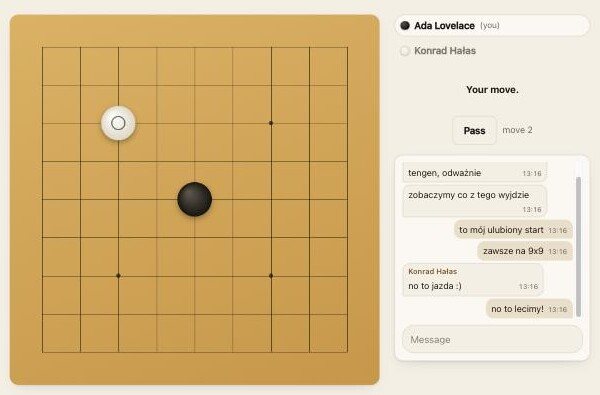
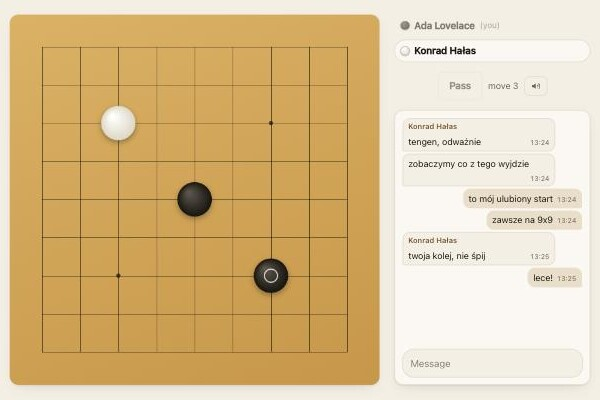
feat: quieter status line, taller chat, a chat sound and a mute
Four small things.

The line naming whose turn it is has gone: the highlighted seat already says
it, and saying it twice made the panel noisier than the game. "Your move."
stays, because that one is a prompt rather than a label, and the line
collapses when it has nothing to say instead of holding a gap open.

The panel now matches the height of the board and the chat takes whatever is
left of it, so the two columns end on the same line. Stacked on a narrow
screen there is no board height to match, so the log falls back to a fixed one.

A message makes a sound of its own — two tones, rising for one arriving and
falling for one leaving, so the two are distinguishable without looking. It is
deliberately not the stone sound: a chat line is not a move.

A speaker button mutes everything, remembered per browser in localStorage. It
gates the sounds at the point they are played rather than at the point they
are decided, so muting never changes what the page does, only what it makes.

diff --git a/web/static/game.js b/web/static/game.js
@@ -19,6 +19,9 @@ const joinButton = joinForm.querySelector('button');
 const inviteRow = document.getElementById('inviteRow');
 const inviteField = document.getElementById('invite');
 const seatsRow = document.getElementById('seats');
+const muteButton = document.getElementById('mute');
+const muteWaves = document.getElementById('muteWaves');
+const muteCross = document.getElementById('muteCross');
 const chatPanel = document.getElementById('chat');
 const chatLog = document.getElementById('chatLog');
 const chatEmpty = document.getElementById('chatEmpty');
@@ -37,6 +40,8 @@ let hovered = -1;
 let lastMoves = null;
 let lastPasses = null;
 let chatShown = '';
+let lastChatAt = null;
+let muted = localStorage.getItem('avgo:muted') === '1';
 
 const headers = () => (token ? { 'x-player-token': token } : {});
 const colorName = (n) => (n === 1 ? 'Black' : n === 2 ? 'White' : 'nobody');
@@ -63,8 +68,29 @@ function unlockAudio() {
 document.addEventListener('pointerdown', unlockAudio);
 document.addEventListener('keydown', unlockAudio);
 
+function showMute() {
+  muteWaves.hidden = muted;
+  muteCross.hidden = !muted;
+  muteButton.setAttribute('aria-pressed', String(muted));
+  const label = muted ? 'Unmute sounds' : 'Mute sounds';
+  muteButton.title = label;
+  muteButton.setAttribute('aria-label', label);
+}
+
+muteButton.addEventListener('click', () => {
+  muted = !muted;
+  localStorage.setItem('avgo:muted', muted ? '1' : '0');
+  showMute();
+});
+
+showMute();
+
+function audible() {
+  return audio && audio.state === 'running' && !muted;
+}
+
 function playStone() {
-  if (!audio || audio.state !== 'running') return;
+  if (!audible()) return;
   const now = audio.currentTime;
 
   const samples = Math.floor(audio.sampleRate * 0.05);
@@ -95,6 +121,29 @@ function playStone() {
   thock.connect(thockGain).connect(audio.destination);
   thock.start(now);
   thock.stop(now + 0.09);
+}
+
+function playChime(incoming) {
+  // Two short tones, a fifth apart: up for a message arriving, down for one
+  // leaving, so you can tell them apart without looking.
+  if (!audible()) return;
+  const now = audio.currentTime;
+  const low = incoming ? 660 : 780;
+  const high = incoming ? 990 : 520;
+
+  const tone = audio.createOscillator();
+  tone.type = 'sine';
+  tone.frequency.setValueAtTime(low, now);
+  tone.frequency.setValueAtTime(high, now + 0.08);
+
+  const level = audio.createGain();
+  level.gain.setValueAtTime(0.0001, now);
+  level.gain.exponentialRampToValueAtTime(0.09, now + 0.012);
+  level.gain.exponentialRampToValueAtTime(0.0001, now + 0.24);
+
+  tone.connect(level).connect(audio.destination);
+  tone.start(now);
+  tone.stop(now + 0.26);
 }
 
 function soundMoves() {
@@ -253,7 +302,13 @@ function renderChat() {
   const messages = state.messages || [];
   // Rebuilding every second would fight the reader's scroll and selection, so
   // the log is only redrawn when it actually changed.
-  const signature = messages.length + ':' + (messages.length ? messages[messages.length - 1].at : '');
+  const newest = messages.length ? messages[messages.length - 1] : null;
+  if (lastChatAt !== null && newest && newest.at > lastChatAt) {
+    playChime(newest.color !== state.you);
+  }
+  lastChatAt = newest ? newest.at : 0;
+
+  const signature = messages.length + ':' + (newest ? newest.at : '');
   chatPanel.hidden = false;
   chatForm.hidden = state.you === 0;
   chatEmpty.hidden = messages.length > 0;
@@ -307,7 +362,9 @@ function render() {
   } else if (myTurn()) {
     say('', 'Your move.');
   } else {
-    say(nameOf(state.turn) + ' to play.');
+    // Whose turn it is already shows on the seats, so this line says nothing
+    // and collapses out of the way.
+    say('');
   }
 
   scoreLine.textContent = state.status === 'finished'

diff --git a/web/static/avgo.css b/web/static/avgo.css
@@ -115,7 +115,7 @@ body {
 .table {
   display: flex;
   gap: 1.5rem;
-  align-items: flex-start;
+  align-items: stretch;
   justify-content: center;
   width: 100%;
 }
@@ -133,6 +133,9 @@ body {
 @media (max-width: 62rem) {
   .table { flex-direction: column; align-items: center; }
   .side { width: min(22rem, 100%); }
+  /* Stacked, there is no board height to match, so the log takes a fixed one. */
+  .chat { flex: none; }
+  .chat-log { flex: none; height: 14rem; }
 }
 .row {
   display: flex;
@@ -148,6 +151,7 @@ body {
 .error { color: var(--danger); }
 /* An empty slot would otherwise hold open a gap nobody asked for. */
 .error:empty { display: none; }
+#status:empty { display: none; }
 
 /* ------------------------------------------------------------- controls -- */
 
@@ -189,6 +193,9 @@ body {
 .btn-primary:hover:not(:disabled) { background: var(--accent); border-color: var(--accent); }
 
 .btn:disabled { opacity: .45; cursor: default; }
+
+.btn-icon { padding: .45rem .55rem; display: inline-flex; align-items: center; }
+.btn-icon[aria-pressed="true"] { color: var(--muted); }
 
 /* --------------------------------------------------------------- pieces -- */
 
@@ -276,6 +283,8 @@ body {
   display: flex;
   flex-direction: column;
   gap: .6rem;
+  flex: 1;
+  min-height: 8rem;
   padding: .7rem;
   background: var(--raised);
   border: 1px solid var(--line);
@@ -290,7 +299,8 @@ body {
   display: flex;
   flex-direction: column;
   gap: .25rem;
-  height: 16rem;
+  flex: 1;
+  min-height: 0;
   overflow-y: auto;
   overscroll-behavior: contain;
 }

diff --git a/web/static/game.html b/web/static/game.html
@@ -33,6 +33,19 @@
       <div class="row">
         <button class="btn" id="pass" disabled>Pass</button>
         <span class="meta" id="score"></span>
+        <button class="btn btn-icon" id="mute" type="button"
+                aria-pressed="false" title="Mute sounds" aria-label="Mute sounds">
+          <svg viewBox="0 0 20 16" width="18" height="16" aria-hidden="true">
+            <path d="M3 6h3l4-3.5v11L6 10H3z" fill="currentColor"/>
+            <g id="muteWaves" stroke="currentColor" stroke-width="1.4" fill="none" stroke-linecap="round">
+              <path d="M13 5.5a4 4 0 0 1 0 5"/>
+              <path d="M15.5 3.5a7.5 7.5 0 0 1 0 9"/>
+            </g>
+            <g id="muteCross" stroke="currentColor" stroke-width="1.4" stroke-linecap="round" hidden>
+              <path d="M13.5 5.5l4 5M17.5 5.5l-4 5"/>
+            </g>
+          </svg>
+        </button>
       </div>
 
       <div class="row" id="inviteRow" hidden>
